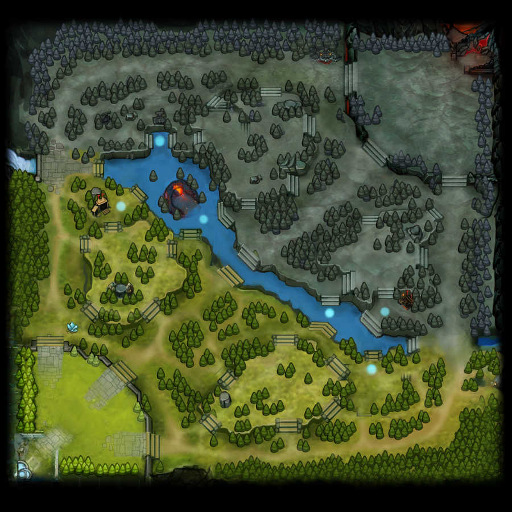
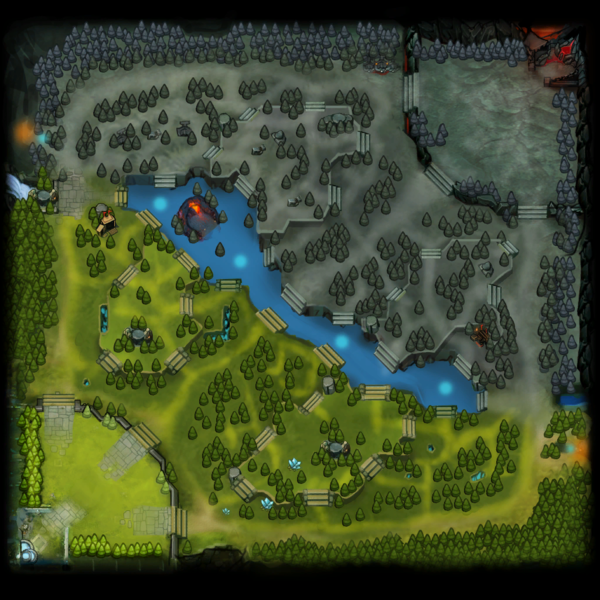
updated dota map to 7.23 and fixed a bug in loggingdb

diff --git a/cogs/utils/loggingdb.py b/cogs/utils/loggingdb.py
@@ -213,14 +213,16 @@ class LoggingDb():
 			return
 
 		cmd = self.session.query(Command).filter_by(message_id=ctx.message.id).order_by(sqlalchemy.desc(Command.id)).first()
-		if cmd:
+		if not cmd:
 			print("couldnt find cmd to finish")
-			cmd.status = status
-			cmd.finish_time = datetime.datetime.utcnow()
-			self.session.commit()
+			return
 
-			total_time = (datetime.datetime.now() - start_time).total_seconds()
-			print_debug(f"command_finished(): {total_time * 1000:.2f}ms")
+		cmd.status = status
+		cmd.finish_time = datetime.datetime.utcnow()
+		self.session.commit()
+
+		total_time = (datetime.datetime.now() - start_time).total_seconds()
+		print_debug(f"command_finished(): {total_time * 1000:.2f}ms")
 
 		# async with Database(self.database_url) as database:
 			# if ctx.command is None:
